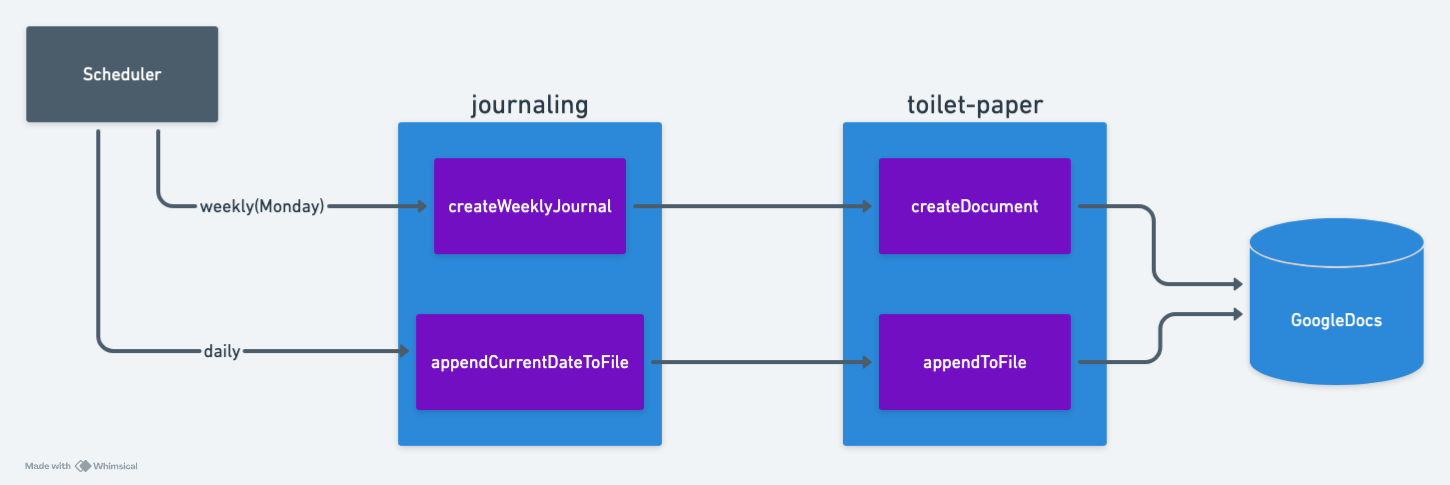
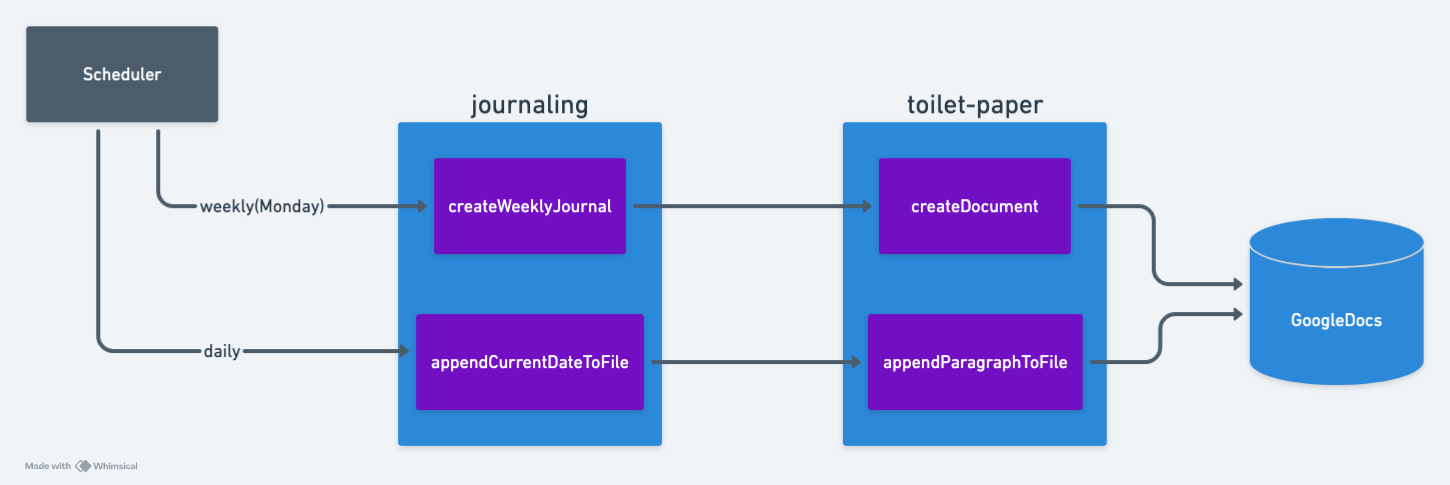
Upgrade toilet-paper version

Changed region(s): [[0.5897, 0.6495, 0.7759, 0.8351]]

diff --git a/src/main.ts b/src/main.ts
@@ -11,7 +11,7 @@ export function appendCurrentDateToFile(): void {
   const folder = Journal.getCurrentFolder();
   const fileName = Journal.getCurrentFileName();
   const currentDate = Cupid.DateService.getCurrentDateFormatted();
-  ToiletPaper.Tissuer.appendToFile(
+  ToiletPaper.Tissuer.appendParagraphToFile(
     folder,
     fileName,
     currentDate,
